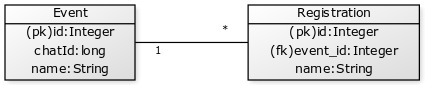
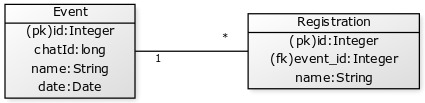
tietokanta toiminnassa ja uusia tapahtumia voidaan lisätä

diff --git a/TelegramEventBot/src/main/java/telegrameventbot/domain/TelegramEventBot.java b/TelegramEventBot/src/main/java/telegrameventbot/domain/TelegramEventBot.java
@@ -5,11 +5,13 @@
  */
 package telegrameventbot.domain;
 
+import java.sql.SQLException;
 import org.telegram.telegrambots.bots.TelegramLongPollingBot;
 import org.telegram.telegrambots.meta.api.methods.send.SendMessage;
 import org.telegram.telegrambots.meta.api.objects.Message;
 import org.telegram.telegrambots.meta.api.objects.Update;
 import org.telegram.telegrambots.meta.exceptions.TelegramApiException;
+import telegrameventbot.dao.TelegramEventBotDao;
 
 /**
  *
@@ -18,10 +20,12 @@ import org.telegram.telegrambots.meta.exceptions.TelegramApiException;
 public class TelegramEventBot extends TelegramLongPollingBot {
     private String apiKey;
     private String userName;
+    private TelegramEventBotDao db;
     
-    public TelegramEventBot(String apiKey, String username) {
+    public TelegramEventBot(String apiKey, String username) throws SQLException {
         this.apiKey = apiKey;
         this.userName = username;
+        this.db = new TelegramEventBotDao("event.db");
     }
     
     @Override
@@ -58,15 +62,16 @@ public class TelegramEventBot extends TelegramLongPollingBot {
     }
 
     public String readCommand(String messageText, long chatId) {
-        String command = messageText.split(" ")[0];
-        String answer = "Something went terribly wrong.";
-
-        if (command.startsWith("/")) {
-            switch (command) {
+        String[] command = messageText.split(" ");
+        String answer = "Something went terribly wrong. Contact my creator.";
+        if (command[0].startsWith("/")) {
+            switch (command[0]) {
                 case "/addevent":
-                    answer = "Tried to add event, but failed";
+                    answer = addEvent(command, chatId);
+                    break;
                 case "/attend":
                     answer = "Tried to attend event, but failed";
+                    break;
             }
         } else {
             answer = "Thats not a command";
@@ -76,7 +81,23 @@ public class TelegramEventBot extends TelegramLongPollingBot {
         return answer;
     }
     
-    public void addEvent(String event, long chatId) {
-        
+    public String addEvent(String[] command, long chatId) {
+        if(command.length == 3 && checkDateFormat(command[2])) {
+            try{
+                db.insertNewEvent(chatId, command[1], command[2]);
+                return command[1] + " saved succesfully for " + command[2] + ". You can now use /attend <eventname>";
+            }catch(SQLException e){
+                e.printStackTrace();
+                return "Something went wrong, event not saved.";
+            }
+        }
+        return "Can't add event. Command must be in format \"/addevent <name> <dd.mm.yyyy>\"";
+    }
+    
+    public boolean checkDateFormat(String date) {
+        if(date.matches("^([0-2][0-9]||3[0-1]).(0[0-9]||1[0-2]).([0-9][0-9])?[0-9][0-9]$")) {
+            return true;
+        }
+        return false;
     }
 }

diff --git a/TelegramEventBot/src/main/java/telegrameventbot/ui/TelegramEventBotUI.java b/TelegramEventBot/src/main/java/telegrameventbot/ui/TelegramEventBotUI.java
@@ -17,6 +17,7 @@ import javafx.scene.Scene;
 import javafx.scene.control.Button;
 import javafx.scene.control.Label;
 import javafx.scene.layout.FlowPane;
+import javafx.scene.layout.GridPane;
 import javafx.stage.Stage;
 import org.telegram.telegrambots.ApiContextInitializer;
 import org.telegram.telegrambots.meta.TelegramBotsApi;
@@ -42,11 +43,8 @@ public class TelegramEventBotUI extends Application {
 
             prop.load(input);
 
-            
             apiKey = prop.getProperty("apiKey");
             username = prop.getProperty("username");
-            System.out.println("apikey: " + apiKey);
-            System.out.println("username: " + username);
         } catch (IOException ex) {
             ex.printStackTrace();
         }
@@ -65,13 +63,14 @@ public class TelegramEventBotUI extends Application {
         stage.setTitle("Telegram Event Bot");
         
         Label botStatus = new Label("Bot status: online");
-        Label usernameText = new Label("username: " + username);
-        Label apiKeyText = new Label("Your apikey: " + apiKey);
+        GridPane.setConstraints(botStatus, 0, 1);
+        Label usernameText = new Label("Username: " + username);
+        GridPane.setConstraints(usernameText, 0, 2);
+        Label apiKeyText = new Label("Apikey: " + apiKey);
+        GridPane.setConstraints(apiKeyText, 0, 3);
         
-        FlowPane components = new FlowPane();
-        components.getChildren().add(botStatus);
-        components.getChildren().add(usernameText);
-        components.getChildren().add(apiKeyText);
+        GridPane components = new GridPane();
+        components.getChildren().addAll(botStatus, usernameText, apiKeyText);
         
         Scene scene = new Scene(components, 200, 100);
         stage.setScene(scene);

diff --git a/TelegramEventBot/src/main/java/telegrameventbot/dao/TelegramEventBotDao.java b/TelegramEventBot/src/main/java/telegrameventbot/dao/TelegramEventBotDao.java
@@ -15,7 +15,7 @@ public class TelegramEventBotDao {
 
     public TelegramEventBotDao(String databaseName) throws SQLException {
         this.database = databaseName;
-        // TODO: initDatabase();
+        initDatabase();
     }
     
     private Connection connect() throws SQLException {
@@ -38,7 +38,8 @@ public class TelegramEventBotDao {
                 "CREATE TABLE IF NOT EXISTS Event (\n"
                 + " id integer PRIMARY KEY,\n"
                 + " chatId integer NOT NULL,\n"
-                + " name varchar(50) NOT NULL);"
+                + " name varchar(50) NOT NULL, \n"
+                + " date Date NOT NULL);"
         );
         createEventTable.execute();
         createEventTable.close();
@@ -53,6 +54,23 @@ public class TelegramEventBotDao {
         createRegistrationTable.execute();
         createRegistrationTable.close();
 
+        connection.close();
+    }
+    
+    public void insertNewEvent(long chatId, String name, String date) throws SQLException {
+        Connection connection = connect();
+        PreparedStatement newEvent = connection.prepareStatement(
+                "INSERT INTO Event(\n"
+                + " chatId, name, date)\n"
+                + " VALUES (?, ?, ?);"
+        );
+        
+        newEvent.setLong(1, chatId);
+        newEvent.setString(2, name);
+        newEvent.setString(3, date);
+        
+        newEvent.executeUpdate();
+        newEvent.close();
         connection.close();
     }
 }

diff --git a/TelegramEventBot/src/test/java/telegrameventbot/domain/TelegramEventBotTest.java b/TelegramEventBot/src/test/java/telegrameventbot/domain/TelegramEventBotTest.java
@@ -6,6 +6,7 @@ package telegrameventbot.domain;
  * and open the template in the editor.
  */
 
+import java.sql.SQLException;
 import telegrameventbot.domain.TelegramEventBot;
 import org.junit.After;
 import org.junit.AfterClass;
@@ -35,18 +36,33 @@ public class TelegramEventBotTest {
     }
     
     @Before
-    public void setUp() {
-        this.eventBot = new TelegramEventBot();
+    public void setUp() throws SQLException {
+        this.eventBot = new TelegramEventBot("BotKey", "Bot");
     }
     
     @Test
     public void botReturnsCorrectUsername() {
-        assertEquals("PrimitiveEventBot", eventBot.getBotUsername());
+        assertEquals("Bot", eventBot.getBotUsername());
+    }
+    
+    @Test
+    public void botReturnsCorrectApiKey() {
+        assertEquals("BotKey", eventBot.getBotToken());
     }
     
     @Test
     public void readCommandReturnsErrorText() {
         assertEquals("Thats not a command", eventBot.readCommand("asdf", 1));
+    }
+    
+    @Test
+    public void checkDateFormatReturnsTrueCorrectly() {
+        assertTrue(eventBot.checkDateFormat("12.01.2019"));
+    }
+    
+    @Test
+    public void checkDateFormatReturnsFalseCorrectly() {
+        assertFalse(eventBot.checkDateFormat("12.01.2"));
     }
     
     @After
